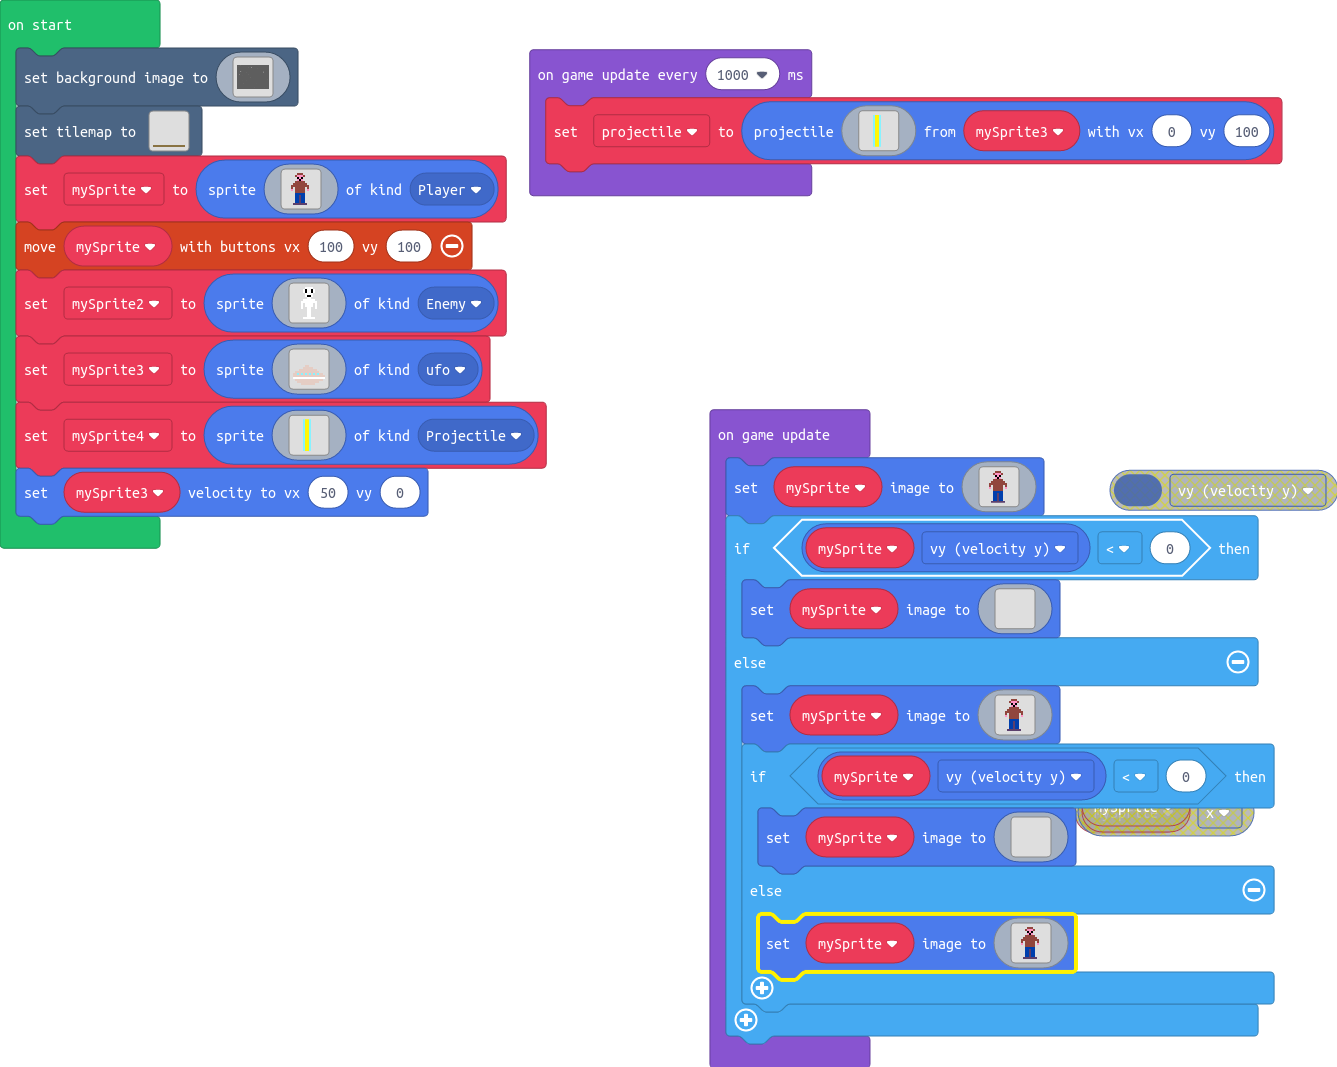
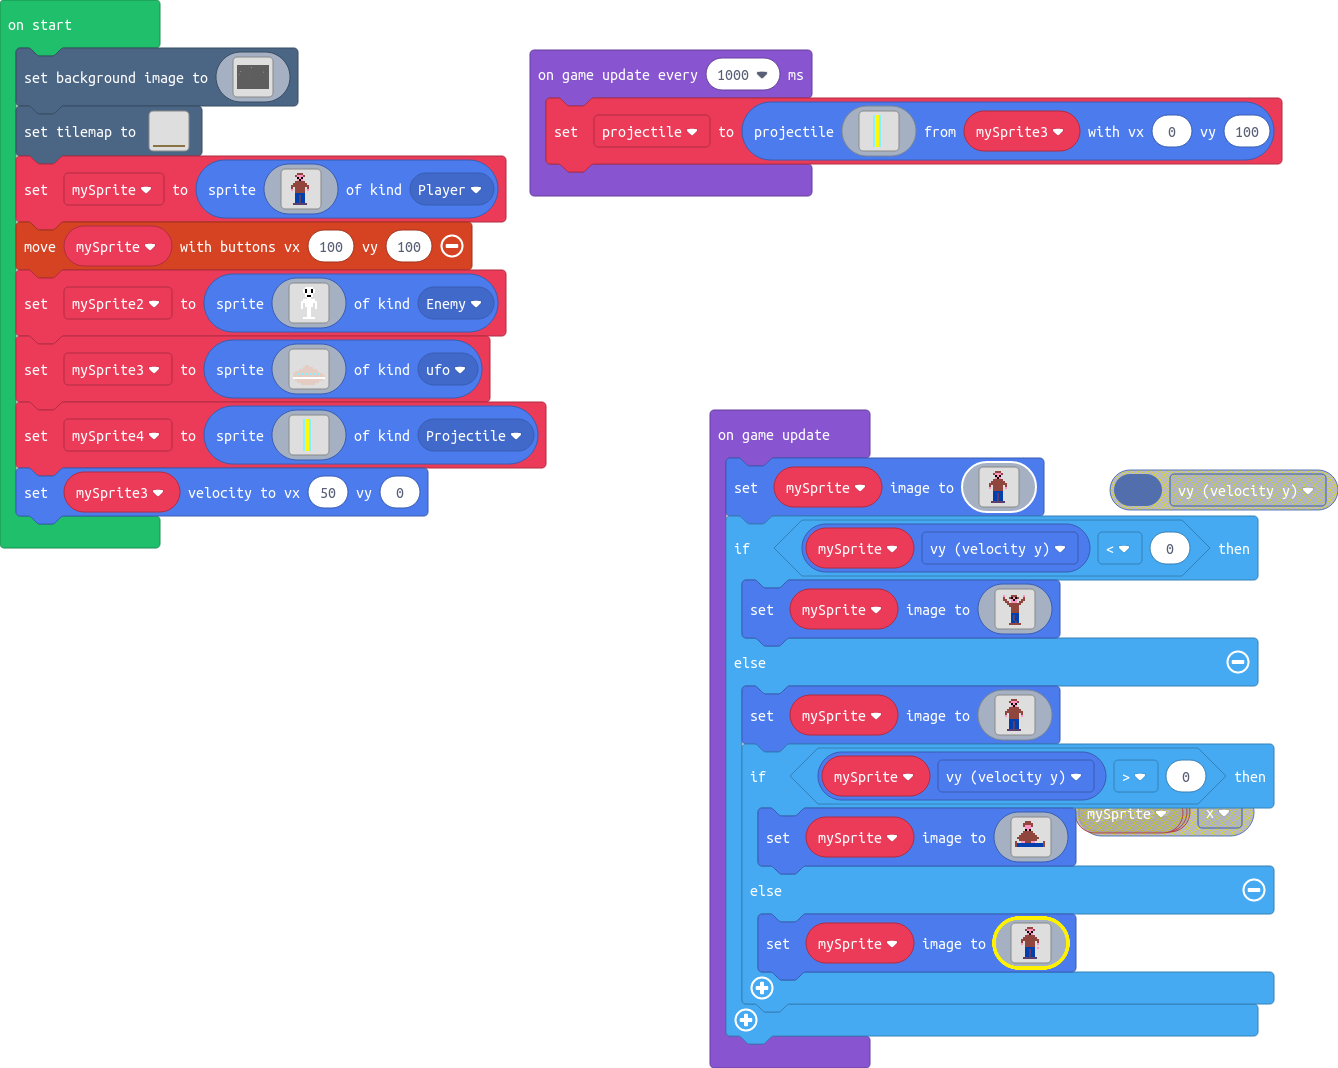
Update main.blocks, main.ts

diff --git a/main.ts b/main.ts
@@ -283,21 +283,21 @@ game.onUpdate(function () {
     if (mySprite.vy < 0) {
         mySprite.setImage(img`
 . . . . . . . . . . . . . . . . 
-. . . . . . . . . . . . . . . . 
-. . . . . . . . . . . . . . . . 
-. . . . . . . . . . . . . . . . 
-. . . . . . . . . . . . . . . . 
-. . . . . . . . . . . . . . . . 
-. . . . . . . . . . . . . . . . 
-. . . . . . . . . . . . . . . . 
-. . . . . . . . . . . . . . . . 
-. . . . . . . . . . . . . . . . 
-. . . . . . . . . . . . . . . . 
-. . . . . . . . . . . . . . . . 
-. . . . . . . . . . . . . . . . 
-. . . . . . . . . . . . . . . . 
-. . . . . . . . . . . . . . . . 
-. . . . . . . . . . . . . . . . 
+. . 3 . . . e e e . . . 3 . . . 
+. . e . . e f 3 f e . . e . . . 
+. . e e . . 3 f 3 . . e e . . . 
+. . . e e . 3 3 3 . e e . . . . 
+. . . . e e e e e e e . . . . . 
+. . . . . e e e e e . . . . . . 
+. . . . . . e e e e . . . . . . 
+. . . . . . e e e e . . . . . . 
+. . . . . . e e e e . . . . . . 
+. . . . . . 8 8 8 8 . . . . . . 
+. . . . . . 8 c 8 8 . . . . . . 
+. . . . . . 8 c 8 8 . . . . . . 
+. . . . . . 8 c 8 8 . . . . . . 
+. . . . . . 8 8 c 8 . . . . . . 
+. . . . . e e e e e e . . . . . 
 `)
     } else {
         mySprite.setImage(img`
@@ -318,21 +318,21 @@ game.onUpdate(function () {
 . . . . . 8 8 c 8 8 . . . . . . 
 . . . . c c c c c c c . . . . . 
 `)
-        if (mySprite.vy < 0) {
+        if (mySprite.vy > 0) {
             mySprite.setImage(img`
-. . . . . . . . . . . . . . . . 
-. . . . . . . . . . . . . . . . 
-. . . . . . . . . . . . . . . . 
-. . . . . . . . . . . . . . . . 
-. . . . . . . . . . . . . . . . 
-. . . . . . . . . . . . . . . . 
-. . . . . . . . . . . . . . . . 
-. . . . . . . . . . . . . . . . 
-. . . . . . . . . . . . . . . . 
-. . . . . . . . . . . . . . . . 
-. . . . . . . . . . . . . . . . 
-. . . . . . . . . . . . . . . . 
-. . . . . . . . . . . . . . . . 
+. . . . . e e e . . . . . . . . 
+. . . . e e e e e . . . . . . . 
+. . . . e 3 3 3 e . . . . . . . 
+. . . . . 3 3 3 . . . . . . . . 
+. . . . . f 3 f . . . . . . . . 
+. . . . e e e e e . . . . . . . 
+. . . e e e e e e e . . . . . . 
+. . e e e e e e e e e . . . . . 
+. e e e e e e e e e e e . . . . 
+. . e e e e e e e e e . . . . . 
+e . . 3 3 e e e 3 3 . . . . e . 
+e 8 8 8 8 8 8 8 8 8 8 8 8 8 e . 
+e 8 8 8 8 8 8 8 8 8 8 8 8 8 e . 
 . . . . . . . . . . . . . . . . 
 . . . . . . . . . . . . . . . . 
 . . . . . . . . . . . . . . . . 
@@ -349,7 +349,7 @@ game.onUpdate(function () {
 . . . e . e e e e e . e . . . . 
 . . . 3 . e e e e e . 3 . . . . 
 . . . . . e e e e e . . . . . . 
-. . . . . 8 8 8 8 8 . . . . . . 
+. . . . . 8 8 8 8 8 . 3 . . . . 
 . . . . . 8 8 c 8 8 . . . . . . 
 . . . . . 8 8 c 8 8 . . . . . . 
 . . . . . 8 8 c 8 8 . . . . . . 
